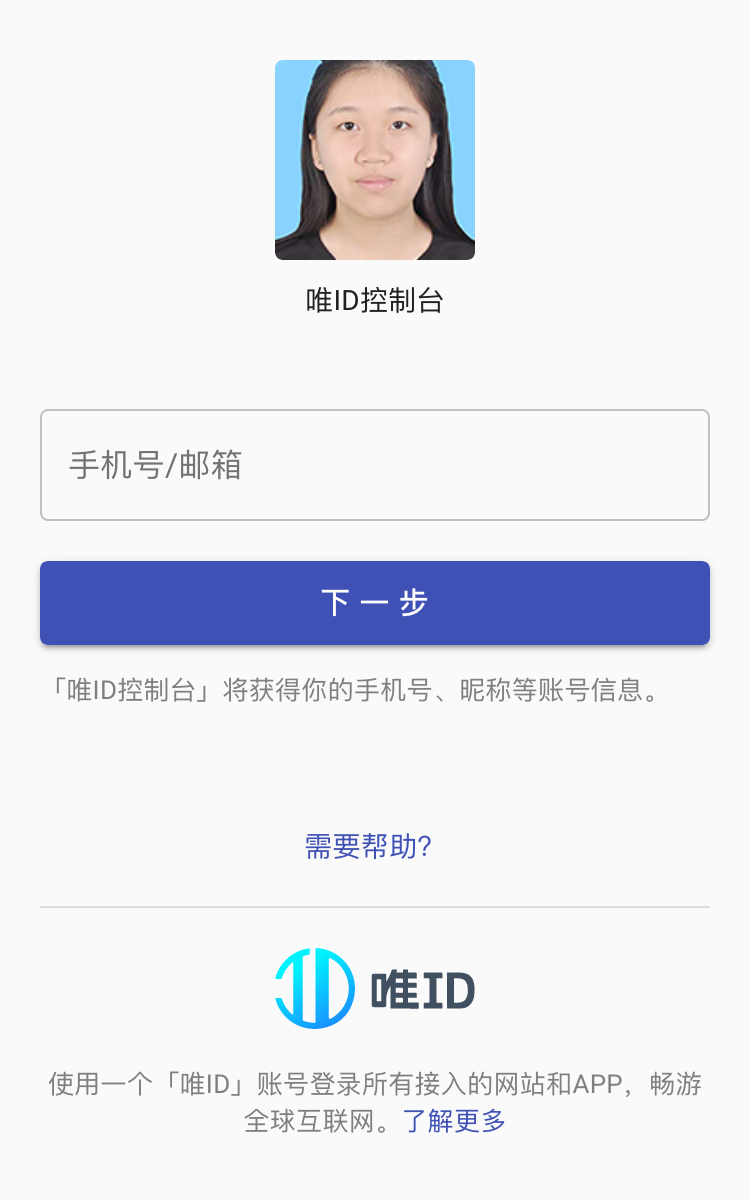
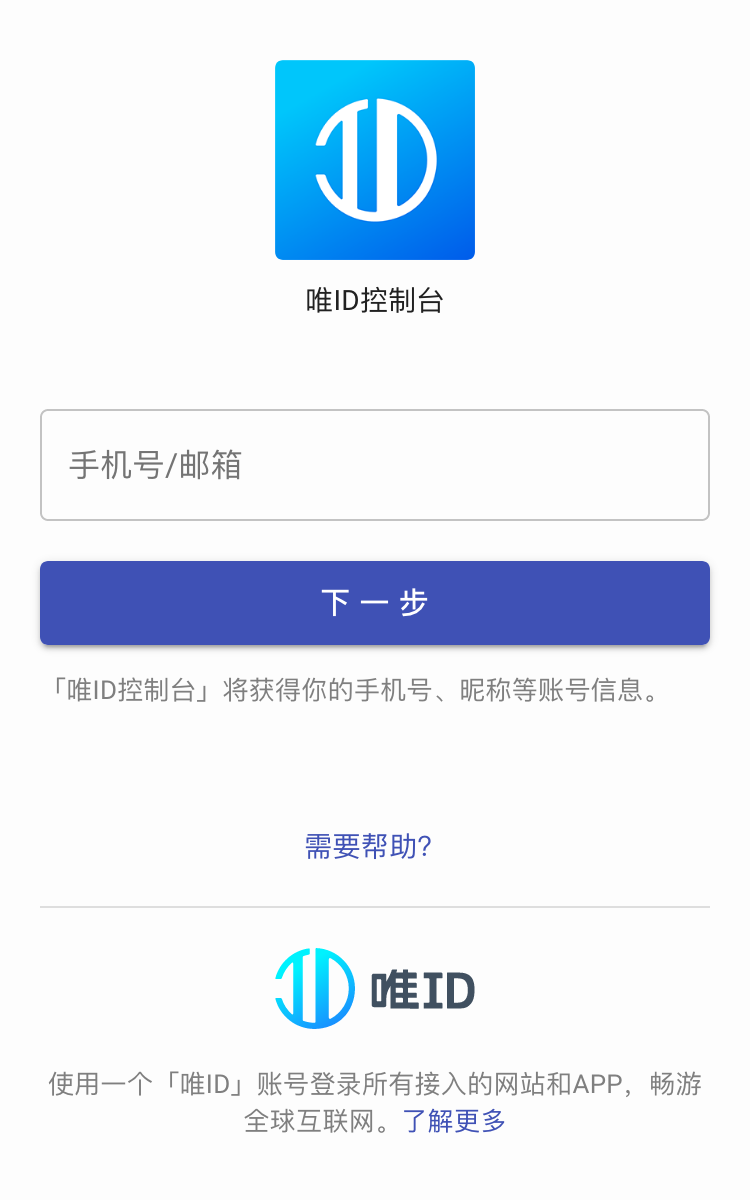
feat: 完善一些截图

Changed region(s): [[0.368, 0.0308, 0.644, 0.2158]]

diff --git a/src/pages/Index/Iam.js b/src/pages/Index/Iam.js
@@ -3,6 +3,8 @@ import { Grid } from "@material-ui/core";
 import styles from "./index.module.css";
 import iam1 from "assets/iam1.png";
 import iam2 from "assets/iam2.png";
+import iam3 from "assets/iam3.png";
+import iam4 from "assets/iam4.png";
 import { SentimentVerySatisfied } from "@material-ui/icons";
 import classNames from "classnames";
 
@@ -57,7 +59,7 @@ export default function() {
                         <Grid item xs={12} sm={6}>
                             <p className={styles.iamTitle1}>权限管理</p>
                             <img
-                                src={iam2}
+                                src={iam3}
                                 alt="iam3"
                                 className={classNames("border1", styles.img1)}
                             />
@@ -75,7 +77,7 @@ export default function() {
                         <Grid item xs={12} sm={6}>
                             <p className={styles.iamTitle1}>角色管理</p>
                             <img
-                                src={iam1}
+                                src={iam4}
                                 alt="iam4"
                                 className={classNames("border1", styles.img1)}
                             />

diff --git a/src/pages/Index/Intro.js b/src/pages/Index/Intro.js
@@ -2,9 +2,9 @@ import React, { useState } from "react";
 import styles from "./index.module.css";
 import { Grid, Hidden, Tab, Tabs } from "@material-ui/core";
 import { SentimentVeryDissatisfied, SentimentVerySatisfied } from "@material-ui/icons";
-import intro1 from "assets/intro1.png";
+import intro1 from "assets/intro1.jpg";
 import intro2 from "assets/intro2.png";
-import intro3 from "assets/intro3.png";
+import intro3 from "assets/intro3.jpg";
 
 export default function() {
     const [value, setValue] = useState(0);
